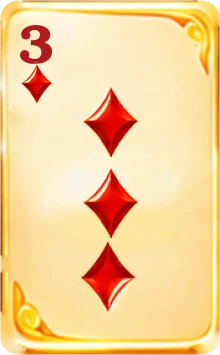
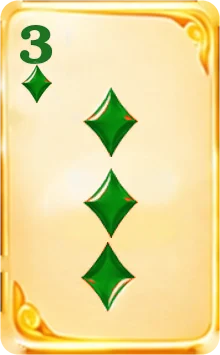
Rat Hacker deck: hearts and diamonds green on every card (number cards and aces recoloured to match the face cards)
Claude-Session: https://claude.ai/code/session_01PGxfpcX8yQ2dVm6AUd14bJ

Changed region(s): [[0.3545, 0.2479, 0.6273, 0.8986], [0.0818, 0.062, 0.2455, 0.3099]]

diff --git a/index.html b/index.html
@@ -18,7 +18,7 @@
   <link href="https://fonts.googleapis.com/css2?family=Lilita+One&display=swap" rel="stylesheet">
   <meta property="og:image" content="assets/logo/share.jpg">
   <meta name="twitter:card" content="summary_large_image">
-  <link rel="stylesheet" href="css/style.css?v=20261118v">
+  <link rel="stylesheet" href="css/style.css?v=20261118w">
 </head>
 <body>
   <!-- ===== Loading screen (removed when the game has started) ===== -->
@@ -567,33 +567,33 @@
   <div id="tipCard" hidden role="status"></div>
   <div id="tutBubble" hidden role="dialog" aria-label="Guided start"></div>
   <!-- Game code, split by section. Files share one global scope and must load in this order. -->
-  <script src="js/00-phone.js?v=20261118v"></script>
-  <script src="js/01-core.js?v=20261118v"></script>
-  <script src="js/02-income.js?v=20261118v"></script>
-  <script src="js/03-casino.js?v=20261118v"></script>
-  <script src="js/04-investing.js?v=20261118v"></script>
-  <script src="js/05-settings.js?v=20261118v"></script>
-  <script src="js/06-casino-cards.js?v=20261118v"></script>
-  <script src="js/07-boosters.js?v=20261118v"></script>
-  <script src="js/08-sky-climb.js?v=20261118v"></script>
-  <script src="js/09-special.js?v=20261118v"></script>
-  <script src="js/10-plinko.js?v=20261118v"></script>
-  <script src="js/11-cosmetics.js?v=20261118v"></script>
-  <script src="js/12-logistics.js?v=20261118v"></script>
-  <script src="js/13-live-trading.js?v=20261118v"></script>
-  <script src="js/14-world-map.js?v=20261118v"></script>
-  <script src="js/15-achievements.js?v=20261118v"></script>
-  <script src="js/16-prestige.js?v=20261118v"></script>
-  <script src="js/17-wiki.js?v=20261118v"></script>
-  <script src="js/18-art.js?v=20261118v"></script>
-  <script src="js/19-science.js?v=20261118v"></script>
-  <script src="js/20-tips.js?v=20261118v"></script>
-  <script src="js/21-clock.js?v=20261118v"></script>
-  <script src="js/22-main-menu.js?v=20261118v"></script>
-  <script src="js/23-minigames.js?v=20261118v"></script>
-  <script src="js/24-genetics.js?v=20261118v"></script>
-  <script src="js/25-baccarat.js?v=20261118v"></script>
-  <script src="js/26-slot-engine.js?v=20261118v"></script>
-  <script src="js/27-gene-cascade.js?v=20261118v"></script>
+  <script src="js/00-phone.js?v=20261118w"></script>
+  <script src="js/01-core.js?v=20261118w"></script>
+  <script src="js/02-income.js?v=20261118w"></script>
+  <script src="js/03-casino.js?v=20261118w"></script>
+  <script src="js/04-investing.js?v=20261118w"></script>
+  <script src="js/05-settings.js?v=20261118w"></script>
+  <script src="js/06-casino-cards.js?v=20261118w"></script>
+  <script src="js/07-boosters.js?v=20261118w"></script>
+  <script src="js/08-sky-climb.js?v=20261118w"></script>
+  <script src="js/09-special.js?v=20261118w"></script>
+  <script src="js/10-plinko.js?v=20261118w"></script>
+  <script src="js/11-cosmetics.js?v=20261118w"></script>
+  <script src="js/12-logistics.js?v=20261118w"></script>
+  <script src="js/13-live-trading.js?v=20261118w"></script>
+  <script src="js/14-world-map.js?v=20261118w"></script>
+  <script src="js/15-achievements.js?v=20261118w"></script>
+  <script src="js/16-prestige.js?v=20261118w"></script>
+  <script src="js/17-wiki.js?v=20261118w"></script>
+  <script src="js/18-art.js?v=20261118w"></script>
+  <script src="js/19-science.js?v=20261118w"></script>
+  <script src="js/20-tips.js?v=20261118w"></script>
+  <script src="js/21-clock.js?v=20261118w"></script>
+  <script src="js/22-main-menu.js?v=20261118w"></script>
+  <script src="js/23-minigames.js?v=20261118w"></script>
+  <script src="js/24-genetics.js?v=20261118w"></script>
+  <script src="js/25-baccarat.js?v=20261118w"></script>
+  <script src="js/26-slot-engine.js?v=20261118w"></script>
+  <script src="js/27-gene-cascade.js?v=20261118w"></script>
 </body>
 </html>
